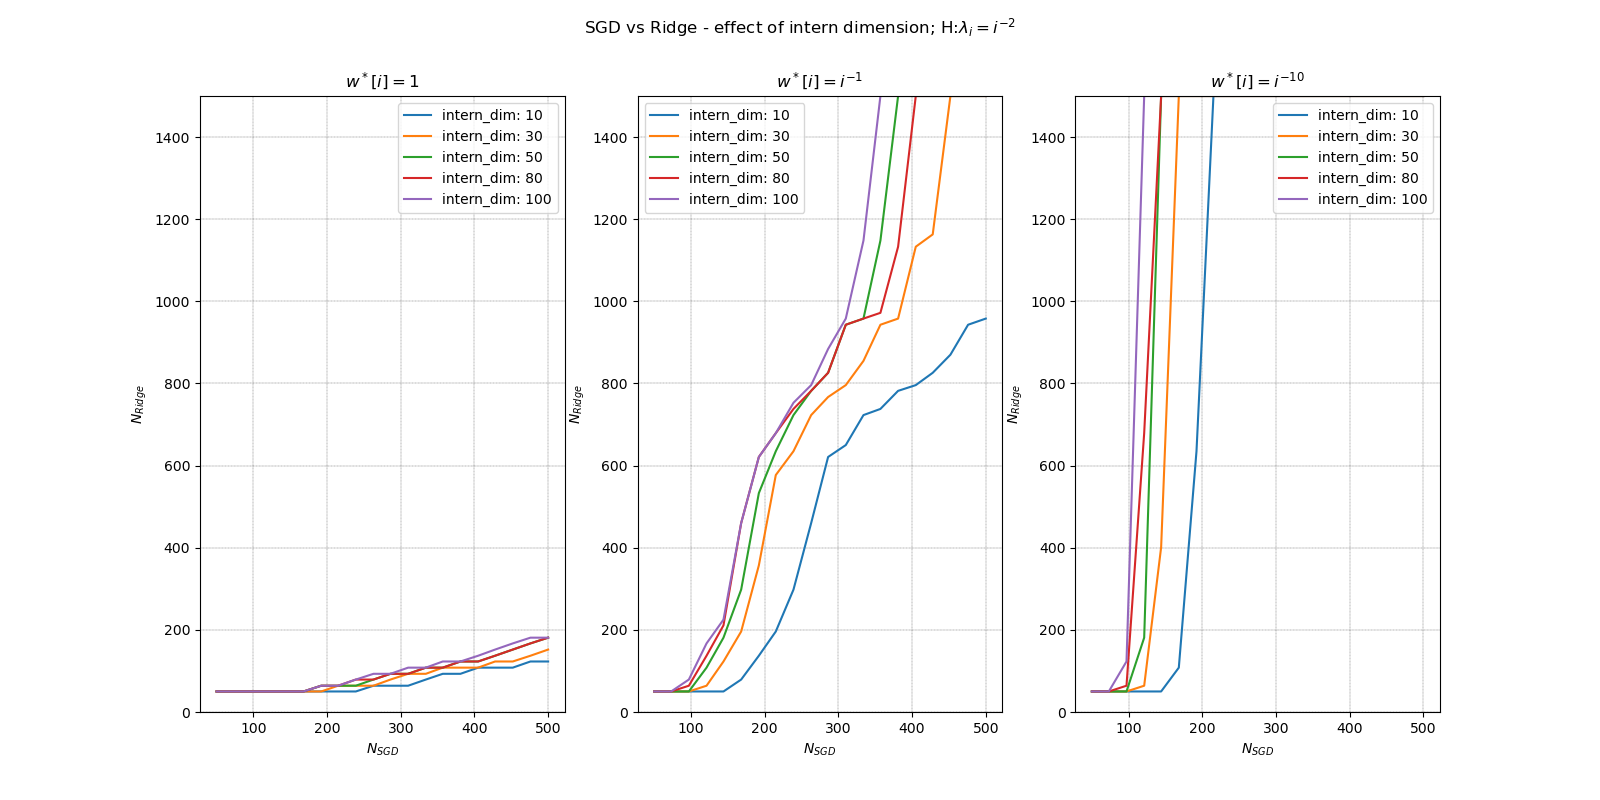
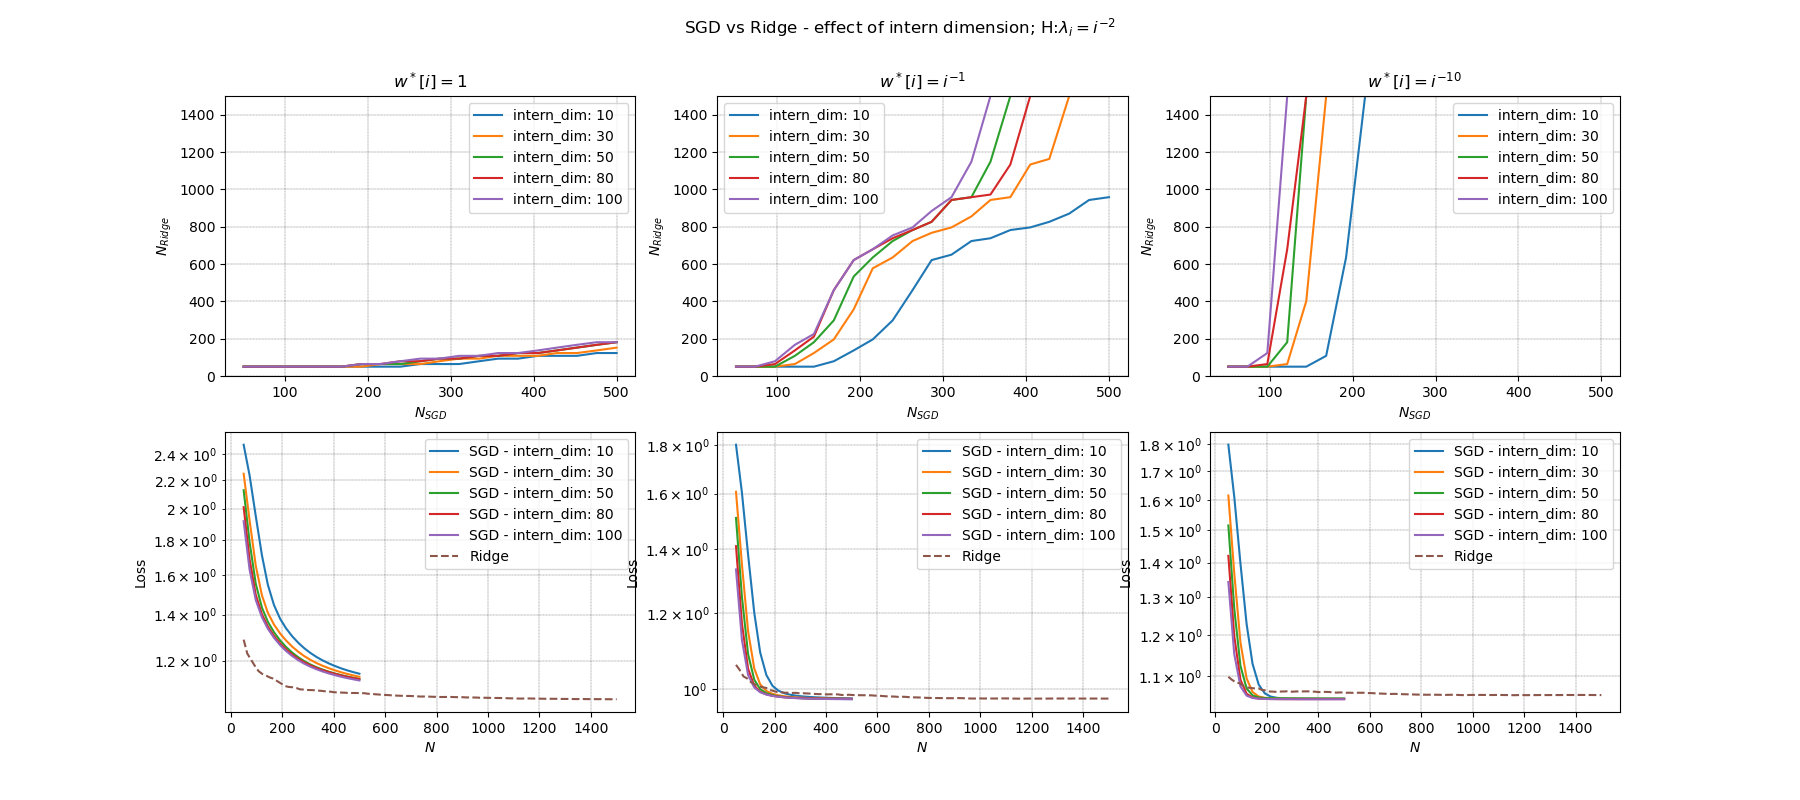
Update crossval & Re-run intern_dim and classic

diff --git a/benefits_study_indimVAR.py b/benefits_study_indimVAR.py
@@ -9,7 +9,7 @@ np.random.seed(5)
 torch.manual_seed(5)
 
 ### Parameters
-COMPUTE_DATA_PLOT = True
+COMPUTE_DATA_PLOT = False
 
 d = 50
 sigma2 = 1
@@ -120,16 +120,26 @@ else:
 
 ### Plot part
 for i, which_h in enumerate(all_which_h):
-    fig,axs = plt.subplots(1,len(all_which_w), figsize=(16,8))
+    fig,axs = plt.subplots(2,len(all_which_w), figsize=(18,8))
     for j,which_w in enumerate(all_which_w):
         for k, intern_dim in enumerate(intern_dims):
-            axs[j].plot(n_sgd, y_plot[k,i,j,:], label=f'intern_dim: {intern_dim}')
-        axs[j].grid(color='black', which="both", linestyle='--', linewidth=0.2)
-        axs[j].legend()
-        axs[j].set_xlabel(r'$N_{SGD}$')
-        axs[j].set_ylabel(r'$N_{Ridge}$')
-        axs[j].set_title(W_LABELS[j])
-        axs[j].set_ylim(0,N_max_ridge)
+            axs[0,j].plot(n_sgd, y_plot[k,i,j,:], label=f'intern_dim: {intern_dim}')
+            axs[1,j].plot(n_sgd, sgd_risks[k,i,j,:], label=f'SGD - intern_dim: {intern_dim}')
+        axs[1,j].plot(n_ridge, ridge_risks[i,j,:], linestyle='--', label=f'Ridge')
+        
+        axs[0,j].grid(color='black', which="both", linestyle='--', linewidth=0.2)
+        axs[0,j].legend()
+        axs[0,j].set_xlabel(r'$N_{SGD}$')
+        axs[0,j].set_ylabel(r'$N_{Ridge}$')
+        axs[0,j].set_title(W_LABELS[j])
+        axs[0,j].set_ylim(0,N_max_ridge)
+
+        axs[1,j].grid(color='black', which="both", linestyle='--', linewidth=0.2)
+        axs[1,j].legend()
+        axs[1,j].set_xlabel(r'$N$')
+        axs[1,j].set_ylabel(r'Loss')
+        axs[1,j].set_yscale('log')
+        #axs[1,j].set_ylim(sigma2*0.9,threshold_obj)
 
     plt.suptitle('SGD vs Ridge - effect of intern dimension; H:'+H_LABELS[i])
     plt.savefig(SAVE_DIR_FIG+f'benefits_H{which_h}_d{d}_depth{depth}_indimVARIATION')

diff --git a/benefits_crossvalidation.py b/benefits_crossvalidation.py
@@ -18,8 +18,8 @@ sigma2 = 1
 
 CROSS_VAL_K = 10
 
-N_max_ridge = int(6000/(1+1/CROSS_VAL_K))
-N_max_sgd = int(2000*(1+1/CROSS_VAL_K))
+N_max_ridge = 1500
+N_max_sgd = 500
 
 n_ridge = np.floor(np.linspace(d,N_max_ridge,100)).astype(dtype=np.uint16)
 n_sgd = np.floor(np.linspace(d,N_max_sgd,20)).astype(dtype=np.uint16)
@@ -86,13 +86,16 @@ if __name__=='__main__':
         objectives_sgd = np.zeros(len(lambdas_))
 
     ### Data generation: data (N_max_ridge,d) ; observations (N_max_ridge,)
-    data, observations = generate_data(p=d, n=N_max_ridge, sigma2=sigma2, which_w=which_w, which_h=which_h)
+    data, observations = generate_data(p=d, n=2*N_max_ridge, sigma2=sigma2, which_w=which_w, which_h=which_h)
 
-    train_masks_ridge, test_masks_ridge = cross_validation(N_max_ridge,
+    train_masks_ridge, test_masks_ridge = cross_validation(2*N_max_ridge,
                                                            k=CROSS_VAL_K, 
                                                            homogeneous=False, 
                                                            sizes=np.floor(np.linspace(d,N_max_ridge,CROSS_VAL_K)).astype(dtype=np.uint16))
-    train_masks_sgd, test_masks_sgd = cross_validation(N_max_sgd,k=CROSS_VAL_K)
+    train_masks_sgd, test_masks_sgd = cross_validation(2*N_max_sgd,
+                                                       k=CROSS_VAL_K,
+                                                       homogeneous=False,
+                                                       sizes=np.floor(np.linspace(d,N_max_sgd,CROSS_VAL_K)).astype(dtype=np.uint16))
 
     # for each hyperparameter, average its performances
     for j in tqdm(range(n_fine_tune_params)):

diff --git a/utils.py b/utils.py
@@ -45,32 +45,6 @@ def ridge(A,b,lambda_):
     else: # multi-dim
         raise NotImplementedError('Penalization per dimension not yet implemented')
     return res
-
-def solve_nonlinear_ridge(Ws, b, lambda_):
-    '''
-    Solves min 1/n*||Ws[-1]@...@W[0]*x - b||^2 + ||lambda_*x||^2
-
-    Parameters
-    ----------
-    Ws: list of (n,d) arrays
-        Weight matrices
-    
-    b: (n,) array
-        Observations
-    
-    lambda_: number, (n,) or (n,d) array
-        L2 penalization parameter
-    
-    Returns
-    -------
-    x: (d,) array
-        The solution of the non-linear ridge regression (see above)
-    '''
-    A = Ws[0]
-    for k in range(1,len(Ws)):
-        A = Ws[k]@A
-    x = ridge(A,b,lambda_)
-    return x
         
 ### MLP Can be a SLN with depth = -1
 class MultiLayerPerceptron(nn.Sequential):
@@ -264,7 +238,7 @@ def cross_validation(n, k=10, homogeneous=True, sizes=None):
             train_masks.append(train)
     else:
         assert k == len(sizes), f'sizes must be of length k={k}'
-        assert max(sizes) > n, f'a train group cannot be bigger than the number of points: k={max(sizes)}>n={n}'
+        assert max(sizes) < n, f'a train group cannot be bigger than the number of points: k={max(sizes)}>n={n}'
         train_masks = []
         test_masks = []
         for i in range(k):

diff --git a/benefits_study.py b/benefits_study.py
@@ -26,7 +26,7 @@ all_which_h = [1,2] # 1 or 2 -> i**(-...)
 all_which_w = [0,1,10] # 0, 1 or 10 -> i**(-...)
 
 intern_dim = 10
-depth = 1
+depth = -1
 
 OUTLIER_DETECTION = True
 threshold_obj = sigma2*4
@@ -43,6 +43,9 @@ SAVE_DIR_FIG = 'figures/'
 W_LABELS = [r'$w^*[i]=1$', r'$w^*[i]=i^{-1}$', r'$w^*[i]=i^{-10}$']
 H_LABELS = [r'$\lambda_i=i^{-1}$', r'$\lambda_i=i^{-2}$']
 COLORS = ['tab:blue', 'tab:orange', 'tab:green']
+additional_title = ''
+if depth >= 0:
+    additional_title += f'  (depth={depth} indim={intern_dim})'
 
 if COMPUTE_DATA_PLOT:
     ### Study
@@ -125,6 +128,7 @@ for i, which_h in enumerate(all_which_h):
     axs[0].legend()
     axs[0].set_xlabel(r'$N_{SGD}$')
     axs[0].set_ylabel(r'$N_{Ridge}$')
+    axs[0].set_ylim(0,N_max_ridge)
 
     axs[1].grid(color='black', which="both", linestyle='--', linewidth=0.2)
     axs[1].legend()
@@ -132,7 +136,7 @@ for i, which_h in enumerate(all_which_h):
     axs[1].set_xlabel('N')
     axs[1].set_ylabel('Population Risk')
 
-    plt.suptitle('SGD vs Ridge ; H:'+H_LABELS[i])
+    plt.suptitle('SGD vs Ridge ; H:'+H_LABELS[i]+additional_title)
     if depth == -1:
         plt.savefig(SAVE_DIR_FIG+f'benefits_H{which_h}_d{d}')
     else:

diff --git a/main.py b/main.py
@@ -5,20 +5,17 @@ import os
 from utils import os_command
 
 
-d = 200//4
+d = 50
 sigma2 = 1
 nb_avg = 10
 
-N_max_ridge = 6000//4
-N_max_sgd = 2000//4
-train_test_split = 0.8 # 80% to train, 20% to evaluate
-n_train_ridge = int(train_test_split*N_max_ridge)
-n_train_sgd = int(train_test_split*N_max_sgd)
+N_max_ridge = 1500
+N_max_sgd = 500
 
 intern_dim = 10
-depth = 1
+depth = -1
 
-which_h = 2 # 1 or 2 -> i**(-...)
+which_h = 1 # 1 or 2 -> i**(-...)
 which_w = 0 # 0, 1 or 10 -> i**(-...)
 
 CROSS_VAL_K = 10
@@ -26,13 +23,13 @@ CROSS_VAL_K = 10
 GENERATE_RIDGE = True # generate ridge weights
 GENERATE_SGD = True # generate SGD weights
 
-FINE_TUNE_RIDGE = True
+FINE_TUNE_RIDGE = False
 FINE_TUNE_SGD = True
 
 if __name__=='__main__':
     # example of command to execute the desired files (generate data for ridge/sgd, fine tune for ridge/sgd on all w)
     for which_w in [0,1,10]:
-        for intern_dim in [10,30,50,80,100]:
+        #for intern_dim in [10,30,50,80,100]:
             file = 'benefits_crossvalidation.py'
             command_fine_tune = os_command(file, 
                                            ridge_bool=FINE_TUNE_RIDGE, 
